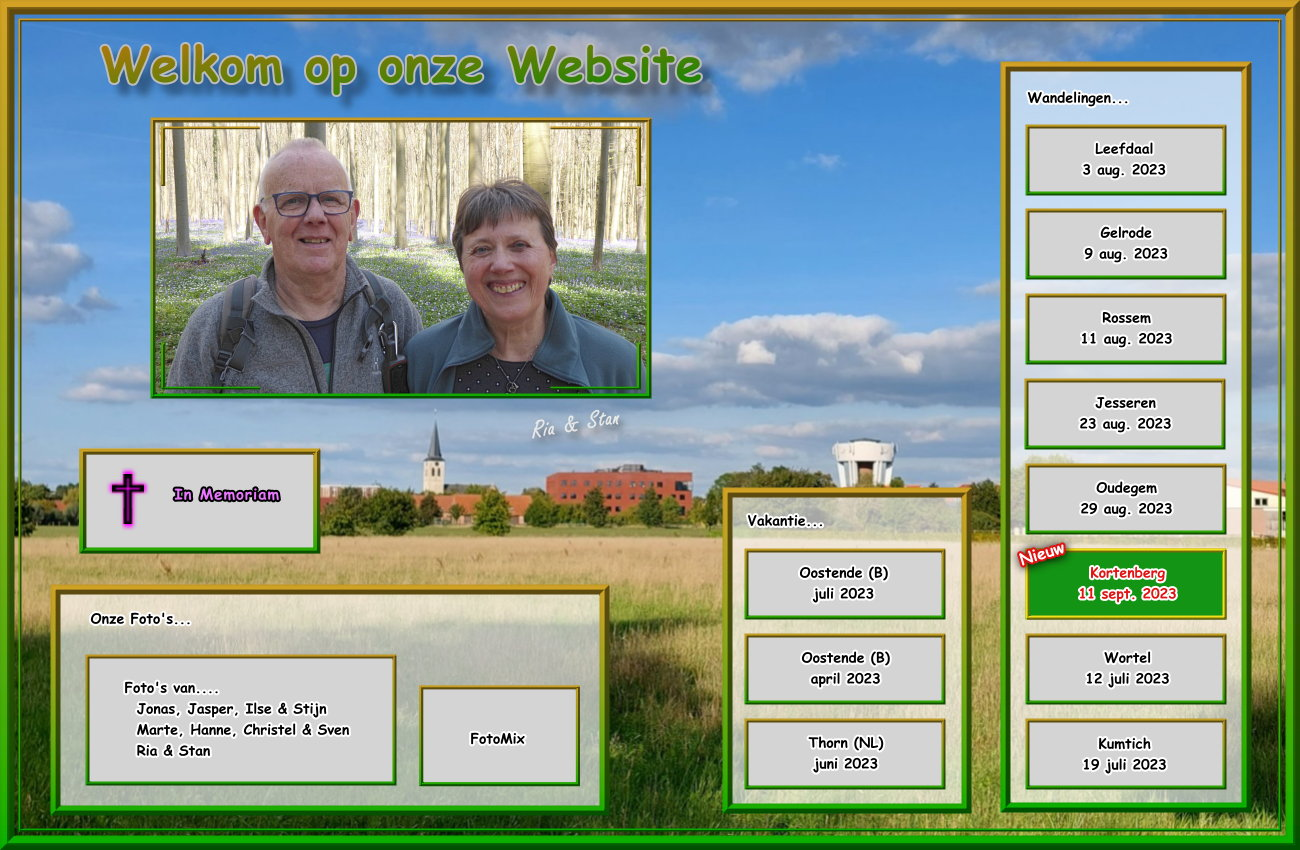
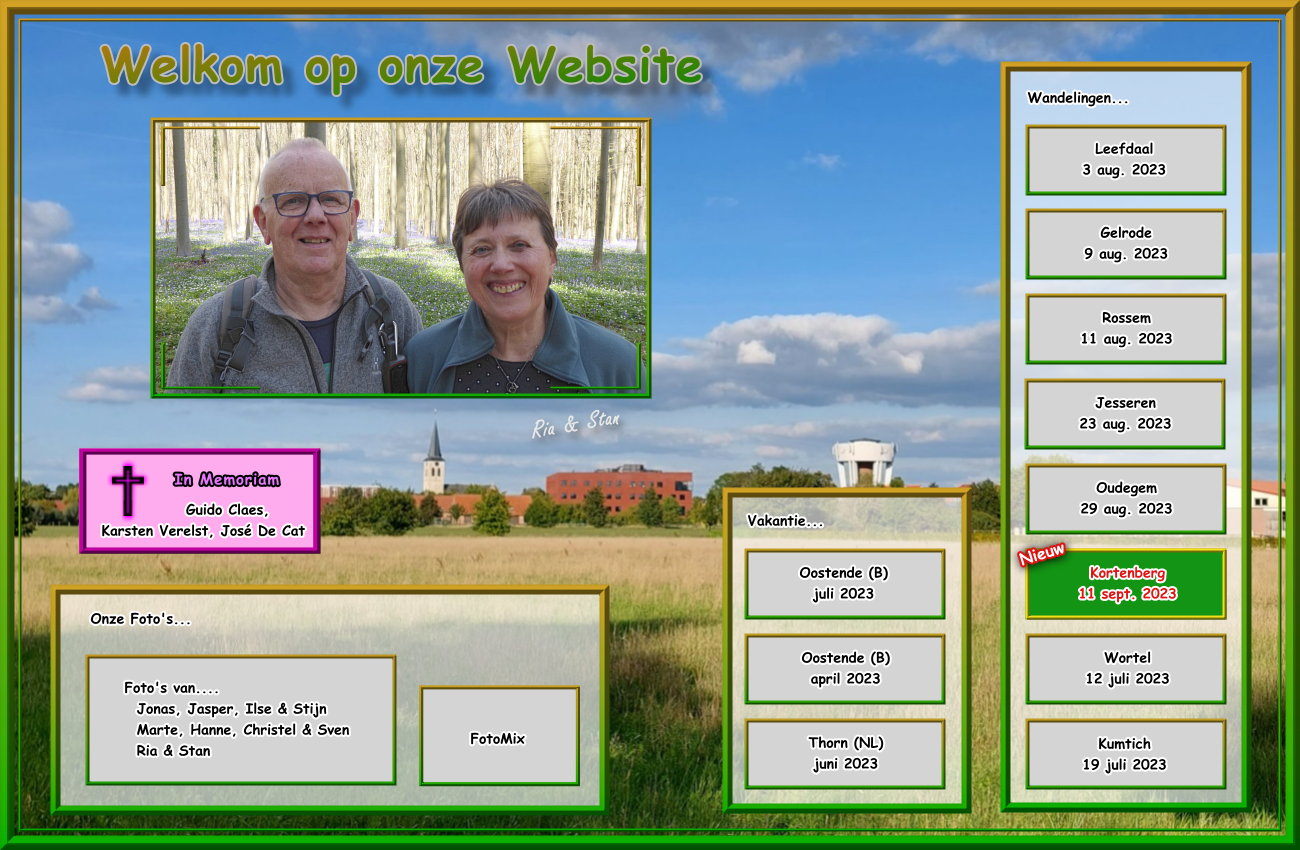
Guido

Changed region(s): [[0.0615, 0.52, 0.2462, 0.6729]]

diff --git a/_vti_cnf/in_memoriam.htm b/_vti_cnf/in_memoriam.htm
@@ -1,18 +1,18 @@
 vti_encoding:SR|utf8-nl
 vti_author:SR|HOME-PC\\Stan Claes
 vti_modifiedby:SR|PC-Home\\Stan
-vti_timelastmodified:TR|06 Aug 2023 09:07:04 -0000
+vti_timelastmodified:TR|15 Sep 2023 07:58:12 -0000
 vti_timecreated:TR|19 Mar 2010 12:04:13 -0000
 vti_title:SR|In Memoriam
 vti_extenderversion:SR|6.0.2.5516
 vti_backlinkinfo:VX|index.htm in_memoriam.htm
-vti_nexttolasttimemodified:TW|31 Jul 2023 10:41:01 -0000
-vti_cacheddtm:TX|06 Aug 2023 09:07:04 -0000
-vti_filesize:IR|5354
+vti_nexttolasttimemodified:TW|06 Aug 2023 09:07:04 -0000
+vti_cacheddtm:TX|15 Sep 2023 07:58:12 -0000
+vti_filesize:IR|5785
 vti_cachedtitle:SR|In Memoriam
 vti_cachedbodystyle:SR|<body background="Fotomap/in_memoriam/in_memoriam_back.jpg" style="background-attachment: fixed" leftmargin="150" rightmargin="150">
-vti_cachedlinkinfo:VX|S|Fotomap/in_memoriam/in_memoriam_back.jpg H|index.htm S|Fotomap/in_memoriam/naam.png S|Fotomap/in_memoriam/yvonnewitdoeck.png S|Fotomap/in_memoriam/rudiherbinia.png S|Fotomap/in_memoriam/krisgoossens.png S|Fotomap/in_memoriam/josebollen.png S|Fotomap/in_memoriam/vers.png S|Fotomap/in_memoriam/raymondebauwens.png S|Fotomap/in_memoriam/mariellepickaert.png S|Fotomap/in_memoriam/evacarrillo.png S|Fotomap/in_memoriam/germainebollen.png S|Fotomap/in_memoriam/jeanmatthyssens.png S|Fotomap/in_memoriam/blanco.png S|Fotomap/in_memoriam/swaverlinden.png S|Fotomap/in_memoriam/arthurwouters.png S|Fotomap/in_memoriam/hildabakelants.png S|Fotomap/in_memoriam/alicebollen.png S|Fotomap/in_memoriam/brunhildemayer.png S|Fotomap/in_memoriam/germainestukkens.png S|Fotomap/in_memoriam/jossmeuninx.png S|Fotomap/in_memoriam/marcelkeller.png S|Fotomap/in_memoriam/blanco.png S|Fotomap/in_memoriam/frankvereycken.png S|Fotomap/in_memoriam/wilfriedvandenabbeele.png S|Fotomap/in_memoriam/blanco.png S|Fotomap/in_memoriam/rikluyckx.png S|Fotomap/in_memoriam/rikvercammen.png S|Fotomap/in_memoriam/blanco.png S|Fotomap/in_memoriam/raymondniewold.png S|Fotomap/in_memoriam/rosaliedirix.png S|Fotomap/in_memoriam/albertschelvis.png S|Fotomap/in_memoriam/thildawuyts.png S|Fotomap/in_memoriam/hubertdescrevel.png S|Fotomap/in_memoriam/blanco.png S|Fotomap/in_memoriam/albertebollen.png S|Fotomap/in_memoriam/deniscrollet.png S|Fotomap/in_memoriam/louisdewolf.png S|Fotomap/in_memoriam/freddynyberg.png K|in_memoriam.htm S|Fotomap/in_memoriam/terugbegin.png K|in_memoriam.htm
-vti_cachedsvcrellinks:VX|FSUS|Fotomap/in_memoriam/in_memoriam_back.jpg FHUS|index.htm FSUS|Fotomap/in_memoriam/naam.png FSUS|Fotomap/in_memoriam/yvonnewitdoeck.png FSUS|Fotomap/in_memoriam/rudiherbinia.png FSUS|Fotomap/in_memoriam/krisgoossens.png FSUS|Fotomap/in_memoriam/josebollen.png FSUS|Fotomap/in_memoriam/vers.png FSUS|Fotomap/in_memoriam/raymondebauwens.png FSUS|Fotomap/in_memoriam/mariellepickaert.png FSUS|Fotomap/in_memoriam/evacarrillo.png FSUS|Fotomap/in_memoriam/germainebollen.png FSUS|Fotomap/in_memoriam/jeanmatthyssens.png FSUS|Fotomap/in_memoriam/blanco.png FSUS|Fotomap/in_memoriam/swaverlinden.png FSUS|Fotomap/in_memoriam/arthurwouters.png FSUS|Fotomap/in_memoriam/hildabakelants.png FSUS|Fotomap/in_memoriam/alicebollen.png FSUS|Fotomap/in_memoriam/brunhildemayer.png FSUS|Fotomap/in_memoriam/germainestukkens.png FSUS|Fotomap/in_memoriam/jossmeuninx.png FSUS|Fotomap/in_memoriam/marcelkeller.png FSUS|Fotomap/in_memoriam/blanco.png FSUS|Fotomap/in_memoriam/frankvereycken.png FSUS|Fotomap/in_memoriam/wilfriedvandenabbeele.png FSUS|Fotomap/in_memoriam/blanco.png FSUS|Fotomap/in_memoriam/rikluyckx.png FSUS|Fotomap/in_memoriam/rikvercammen.png FSUS|Fotomap/in_memoriam/blanco.png FSUS|Fotomap/in_memoriam/raymondniewold.png FSUS|Fotomap/in_memoriam/rosaliedirix.png FSUS|Fotomap/in_memoriam/albertschelvis.png FSUS|Fotomap/in_memoriam/thildawuyts.png FSUS|Fotomap/in_memoriam/hubertdescrevel.png FSUS|Fotomap/in_memoriam/blanco.png FSUS|Fotomap/in_memoriam/albertebollen.png FSUS|Fotomap/in_memoriam/deniscrollet.png FSUS|Fotomap/in_memoriam/louisdewolf.png FSUS|Fotomap/in_memoriam/freddynyberg.png FKUS|in_memoriam.htm FSUS|Fotomap/in_memoriam/terugbegin.png FKUS|in_memoriam.htm
+vti_cachedlinkinfo:VX|S|Fotomap/in_memoriam/in_memoriam_back.jpg H|index.htm S|Fotomap/in_memoriam/naam.png S|Fotomap/in_memoriam/guidoclaes.png S|Fotomap/in_memoriam/karstenverelst.png S|Fotomap/in_memoriam/josedecat.png S|Fotomap/in_memoriam/yvonnewitdoeck.png S|Fotomap/in_memoriam/rudiherbinia.png S|Fotomap/in_memoriam/vers.png S|Fotomap/in_memoriam/krisgoossens.png S|Fotomap/in_memoriam/josebollen.png S|Fotomap/in_memoriam/raymondebauwens.png S|Fotomap/in_memoriam/mariellepickaert.png S|Fotomap/in_memoriam/evacarrillo.png S|Fotomap/in_memoriam/germainebollen.png S|Fotomap/in_memoriam/jeanmatthyssens.png S|Fotomap/in_memoriam/blanco.png S|Fotomap/in_memoriam/swaverlinden.png S|Fotomap/in_memoriam/arthurwouters.png S|Fotomap/in_memoriam/hildabakelants.png S|Fotomap/in_memoriam/alicebollen.png S|Fotomap/in_memoriam/blanco.png S|Fotomap/in_memoriam/brunhildemayer.png S|Fotomap/in_memoriam/blanco.png S|Fotomap/in_memoriam/germainestukkens.png S|Fotomap/in_memoriam/jossmeuninx.png S|Fotomap/in_memoriam/marcelkeller.png S|Fotomap/in_memoriam/frankvereycken.png S|Fotomap/in_memoriam/wilfriedvandenabbeele.png S|Fotomap/in_memoriam/blanco.png S|Fotomap/in_memoriam/rikluyckx.png S|Fotomap/in_memoriam/rikvercammen.png S|Fotomap/in_memoriam/raymondniewold.png S|Fotomap/in_memoriam/rosaliedirix.png S|Fotomap/in_memoriam/blanco.png S|Fotomap/in_memoriam/albertschelvis.png S|Fotomap/in_memoriam/thildawuyts.png S|Fotomap/in_memoriam/blanco.png S|Fotomap/in_memoriam/hubertdescrevel.png S|Fotomap/in_memoriam/albertebollen.png S|Fotomap/in_memoriam/deniscrollet.png S|Fotomap/in_memoriam/louisdewolf.png S|Fotomap/in_memoriam/freddynyberg.png K|in_memoriam.htm S|Fotomap/in_memoriam/terugbegin.png K|in_memoriam.htm
+vti_cachedsvcrellinks:VX|FSUS|Fotomap/in_memoriam/in_memoriam_back.jpg FHUS|index.htm FSUS|Fotomap/in_memoriam/naam.png FSUS|Fotomap/in_memoriam/guidoclaes.png FSUS|Fotomap/in_memoriam/karstenverelst.png FSUS|Fotomap/in_memoriam/josedecat.png FSUS|Fotomap/in_memoriam/yvonnewitdoeck.png FSUS|Fotomap/in_memoriam/rudiherbinia.png FSUS|Fotomap/in_memoriam/vers.png FSUS|Fotomap/in_memoriam/krisgoossens.png FSUS|Fotomap/in_memoriam/josebollen.png FSUS|Fotomap/in_memoriam/raymondebauwens.png FSUS|Fotomap/in_memoriam/mariellepickaert.png FSUS|Fotomap/in_memoriam/evacarrillo.png FSUS|Fotomap/in_memoriam/germainebollen.png FSUS|Fotomap/in_memoriam/jeanmatthyssens.png FSUS|Fotomap/in_memoriam/blanco.png FSUS|Fotomap/in_memoriam/swaverlinden.png FSUS|Fotomap/in_memoriam/arthurwouters.png FSUS|Fotomap/in_memoriam/hildabakelants.png FSUS|Fotomap/in_memoriam/alicebollen.png FSUS|Fotomap/in_memoriam/blanco.png FSUS|Fotomap/in_memoriam/brunhildemayer.png FSUS|Fotomap/in_memoriam/blanco.png FSUS|Fotomap/in_memoriam/germainestukkens.png FSUS|Fotomap/in_memoriam/jossmeuninx.png FSUS|Fotomap/in_memoriam/marcelkeller.png FSUS|Fotomap/in_memoriam/frankvereycken.png FSUS|Fotomap/in_memoriam/wilfriedvandenabbeele.png FSUS|Fotomap/in_memoriam/blanco.png FSUS|Fotomap/in_memoriam/rikluyckx.png FSUS|Fotomap/in_memoriam/rikvercammen.png FSUS|Fotomap/in_memoriam/raymondniewold.png FSUS|Fotomap/in_memoriam/rosaliedirix.png FSUS|Fotomap/in_memoriam/blanco.png FSUS|Fotomap/in_memoriam/albertschelvis.png FSUS|Fotomap/in_memoriam/thildawuyts.png FSUS|Fotomap/in_memoriam/blanco.png FSUS|Fotomap/in_memoriam/hubertdescrevel.png FSUS|Fotomap/in_memoriam/albertebollen.png FSUS|Fotomap/in_memoriam/deniscrollet.png FSUS|Fotomap/in_memoriam/louisdewolf.png FSUS|Fotomap/in_memoriam/freddynyberg.png FKUS|in_memoriam.htm FSUS|Fotomap/in_memoriam/terugbegin.png FKUS|in_memoriam.htm
 vti_cachedneedsrewrite:BR|false
 vti_cachedhasbots:BR|false
 vti_cachedhastheme:BR|false

diff --git a/in_memoriam.htm b/in_memoriam.htm
@@ -49,17 +49,20 @@ text-decoration: none;
 
 </div>
 <p align="center">
-<img border="0" src="Fotomap/in_memoriam/yvonnewitdoeck.png" width="200" height="300">
+<img border="0" src="Fotomap/in_memoriam/guidoclaes.png" width="200" height="300">&nbsp;&nbsp;&nbsp;&nbsp;
+<img border="0" src="Fotomap/in_memoriam/karstenverelst.png" width="200" height="300">&nbsp;&nbsp;&nbsp;&nbsp;
+<img border="0" src="Fotomap/in_memoriam/josedecat.png" width="200" height="300">
 </p>
 
 <hr color="#CD036F">
 
 <p align="center">
 &nbsp;
+<img border="0" src="Fotomap/in_memoriam/yvonnewitdoeck.png" width="200" height="300">&nbsp;&nbsp;&nbsp;&nbsp;
 <img border="0" src="Fotomap/in_memoriam/rudiherbinia.png" width="200" height="300">&nbsp;&nbsp;&nbsp;&nbsp;
+<img border="0" src="Fotomap/in_memoriam/vers.png" width="420" height="300">&nbsp;&nbsp;&nbsp;&nbsp;
 <img border="0" src="Fotomap/in_memoriam/krisgoossens.png" width="200" height="300">&nbsp;&nbsp;&nbsp;&nbsp;
 <img border="0" src="Fotomap/in_memoriam/josebollen.png" width="200" height="300">&nbsp;&nbsp;&nbsp;&nbsp;
-<img border="0" src="Fotomap/in_memoriam/vers.png" width="420" height="300">&nbsp;&nbsp;&nbsp;&nbsp;
 <img border="0" src="Fotomap/in_memoriam/raymondebauwens.png" width="200" height="300">&nbsp;&nbsp;&nbsp;&nbsp;
 <img border="0" src="Fotomap/in_memoriam/mariellepickaert.png" width="200" height="300">&nbsp;&nbsp;&nbsp;&nbsp;
 <img border="0" src="Fotomap/in_memoriam/evacarrillo.png" width="200" height="300">&nbsp;&nbsp;&nbsp;&nbsp;
@@ -70,23 +73,24 @@ text-decoration: none;
 <img border="0" src="Fotomap/in_memoriam/arthurwouters.png" width="200" height="300">&nbsp;&nbsp;&nbsp;&nbsp;
 <img border="0" src="Fotomap/in_memoriam/hildabakelants.png" width="200" height="300">&nbsp;&nbsp;&nbsp;&nbsp;
 <img border="0" src="Fotomap/in_memoriam/alicebollen.png" width="200" height="300">&nbsp;&nbsp;&nbsp;&nbsp;
+<img border="0" src="Fotomap/in_memoriam/blanco.png" width="200" height="300">&nbsp;&nbsp;&nbsp;&nbsp;
 <img border="0" src="Fotomap/in_memoriam/brunhildemayer.png" width="200" height="300">&nbsp;&nbsp;&nbsp;&nbsp;
+<img border="0" src="Fotomap/in_memoriam/blanco.png" width="200" height="300">&nbsp;&nbsp;&nbsp;&nbsp;
 <img border="0" src="Fotomap/in_memoriam/germainestukkens.png" width="200" height="300">&nbsp;&nbsp;&nbsp;&nbsp;
 <img border="0" src="Fotomap/in_memoriam/jossmeuninx.png" width="200" height="300">&nbsp;&nbsp;&nbsp;&nbsp;
 <img border="0" src="Fotomap/in_memoriam/marcelkeller.png" width="200" height="300">&nbsp;&nbsp;&nbsp;&nbsp;
-<img border="0" src="Fotomap/in_memoriam/blanco.png" width="200" height="300">&nbsp;&nbsp;&nbsp;&nbsp;
 <img border="0" src="Fotomap/in_memoriam/frankvereycken.png" width="200" height="300">&nbsp;&nbsp;&nbsp;&nbsp;
 <img border="0" src="Fotomap/in_memoriam/wilfriedvandenabbeele.png" width="200" height="300">&nbsp;&nbsp;&nbsp;&nbsp;
 <img border="0" src="Fotomap/in_memoriam/blanco.png" width="200" height="300">&nbsp;&nbsp;&nbsp;&nbsp;
 <img border="0" src="Fotomap/in_memoriam/rikluyckx.png" width="200" height="300">&nbsp;&nbsp;&nbsp;&nbsp;
 <img border="0" src="Fotomap/in_memoriam/rikvercammen.png" width="200" height="300">&nbsp;&nbsp;&nbsp;&nbsp;
-<img border="0" src="Fotomap/in_memoriam/blanco.png" width="200" height="300">&nbsp;&nbsp;&nbsp;&nbsp;
 <img border="0" src="Fotomap/in_memoriam/raymondniewold.png" width="200" height="300">&nbsp;&nbsp;&nbsp;&nbsp;
 <img border="0" src="Fotomap/in_memoriam/rosaliedirix.png" width="200" height="300">&nbsp;&nbsp;&nbsp;&nbsp;
+<img border="0" src="Fotomap/in_memoriam/blanco.png" width="200" height="300">&nbsp;&nbsp;&nbsp;&nbsp;
 <img border="0" src="Fotomap/in_memoriam/albertschelvis.png" width="200" height="300">&nbsp;&nbsp;&nbsp;&nbsp;
 <img border="0" src="Fotomap/in_memoriam/thildawuyts.png" width="200" height="300">&nbsp;&nbsp;&nbsp;&nbsp;
-<img border="0" src="Fotomap/in_memoriam/hubertdescrevel.png" width="200" height="300">&nbsp;&nbsp;&nbsp;&nbsp;
 <img border="0" src="Fotomap/in_memoriam/blanco.png" width="200" height="300">&nbsp;&nbsp;&nbsp;&nbsp;
+<img border="0" src="Fotomap/in_memoriam/hubertdescrevel.png" width="200" height="300">&nbsp;&nbsp;&nbsp;&nbsp;
 <img border="0" src="Fotomap/in_memoriam/albertebollen.png" width="200" height="300">&nbsp;&nbsp;&nbsp;&nbsp;
 <img border="0" src="Fotomap/in_memoriam/deniscrollet.png" width="200" height="300">&nbsp;&nbsp;&nbsp;&nbsp;
 <img border="0" src="Fotomap/in_memoriam/louisdewolf.png" width="200" height="300">&nbsp;&nbsp;&nbsp;&nbsp;

diff --git a/_vti_cnf/index.htm b/_vti_cnf/index.htm
@@ -1,13 +1,13 @@
 vti_encoding:SR|utf8-nl
-vti_timelastmodified:TR|12 Sep 2023 17:05:11 -0000
+vti_timelastmodified:TR|15 Sep 2023 08:04:47 -0000
 vti_extenderversion:SR|6.0.2.5516
 vti_author:SR|PC-Home\\Stan
 vti_modifiedby:SR|PC-Home\\Stan
 vti_timecreated:TR|12 Dec 2015 14:26:20 -0000
 vti_title:SR|Welkom op onze website
 vti_backlinkinfo:VX|claes-bollen.htm familiefotos.htm denis.htm gildeclowns.htm fotomix.htm claes-faes.htm Polaroid_map2/fortb.htm fotoboek.htm vakantie_map4.htm in_memoriam.htm vakantie_map3.htm sneeuw.htm denis-claes.htm keukenhof.htm vakantie_map1.htm vakantie_map2.htm familiefotos_extra.htm ballon.htm wandeling_map7.htm kerstwensen.htm Polaroid_map1/paasfeest.htm wandeling_map8.htm index.htm wandeling_map5.htm wandeling_map6.htm fortb/fortb.htm ilse-stijn-extra.htm hanne5.htm bernaerts-claes.htm wandeling_map3.htm wandeling_map4.htm kerstmis.htm kerst.htm wandeling_map1.htm wandeling_map2.htm rs_info.htm
-vti_nexttolasttimemodified:TW|10 Sep 2023 12:53:25 -0000
-vti_cacheddtm:TX|12 Sep 2023 17:05:11 -0000
+vti_nexttolasttimemodified:TW|12 Sep 2023 17:05:11 -0000
+vti_cacheddtm:TX|15 Sep 2023 08:04:47 -0000
 vti_filesize:IR|2418
 vti_cachedtitle:SR|Welkom op onze website
 vti_cachedbodystyle:SR|<body style="background-attachment: fixed" background="index_back.jpg" leftmargin="100" rightmargin="100">

diff --git a/index.htm b/index.htm
@@ -41,7 +41,7 @@
 <font color="#FFFFFF">CCF 2023
 <img border="0" src="blanco.png" width="450" height="10"> 
 Laatste Update:&nbsp;
-<!--webbot bot="Timestamp" S-Type="EDITED" S-Format="%d %B %Y" startspan -->12 september 2023<!--webbot bot="Timestamp" i-checksum="40005" endspan --></font></b></p>
+<!--webbot bot="Timestamp" S-Type="EDITED" S-Format="%d %B %Y" startspan -->15 september 2023<!--webbot bot="Timestamp" i-checksum="40011" endspan --></font></b></p>
 
 </body>
 
